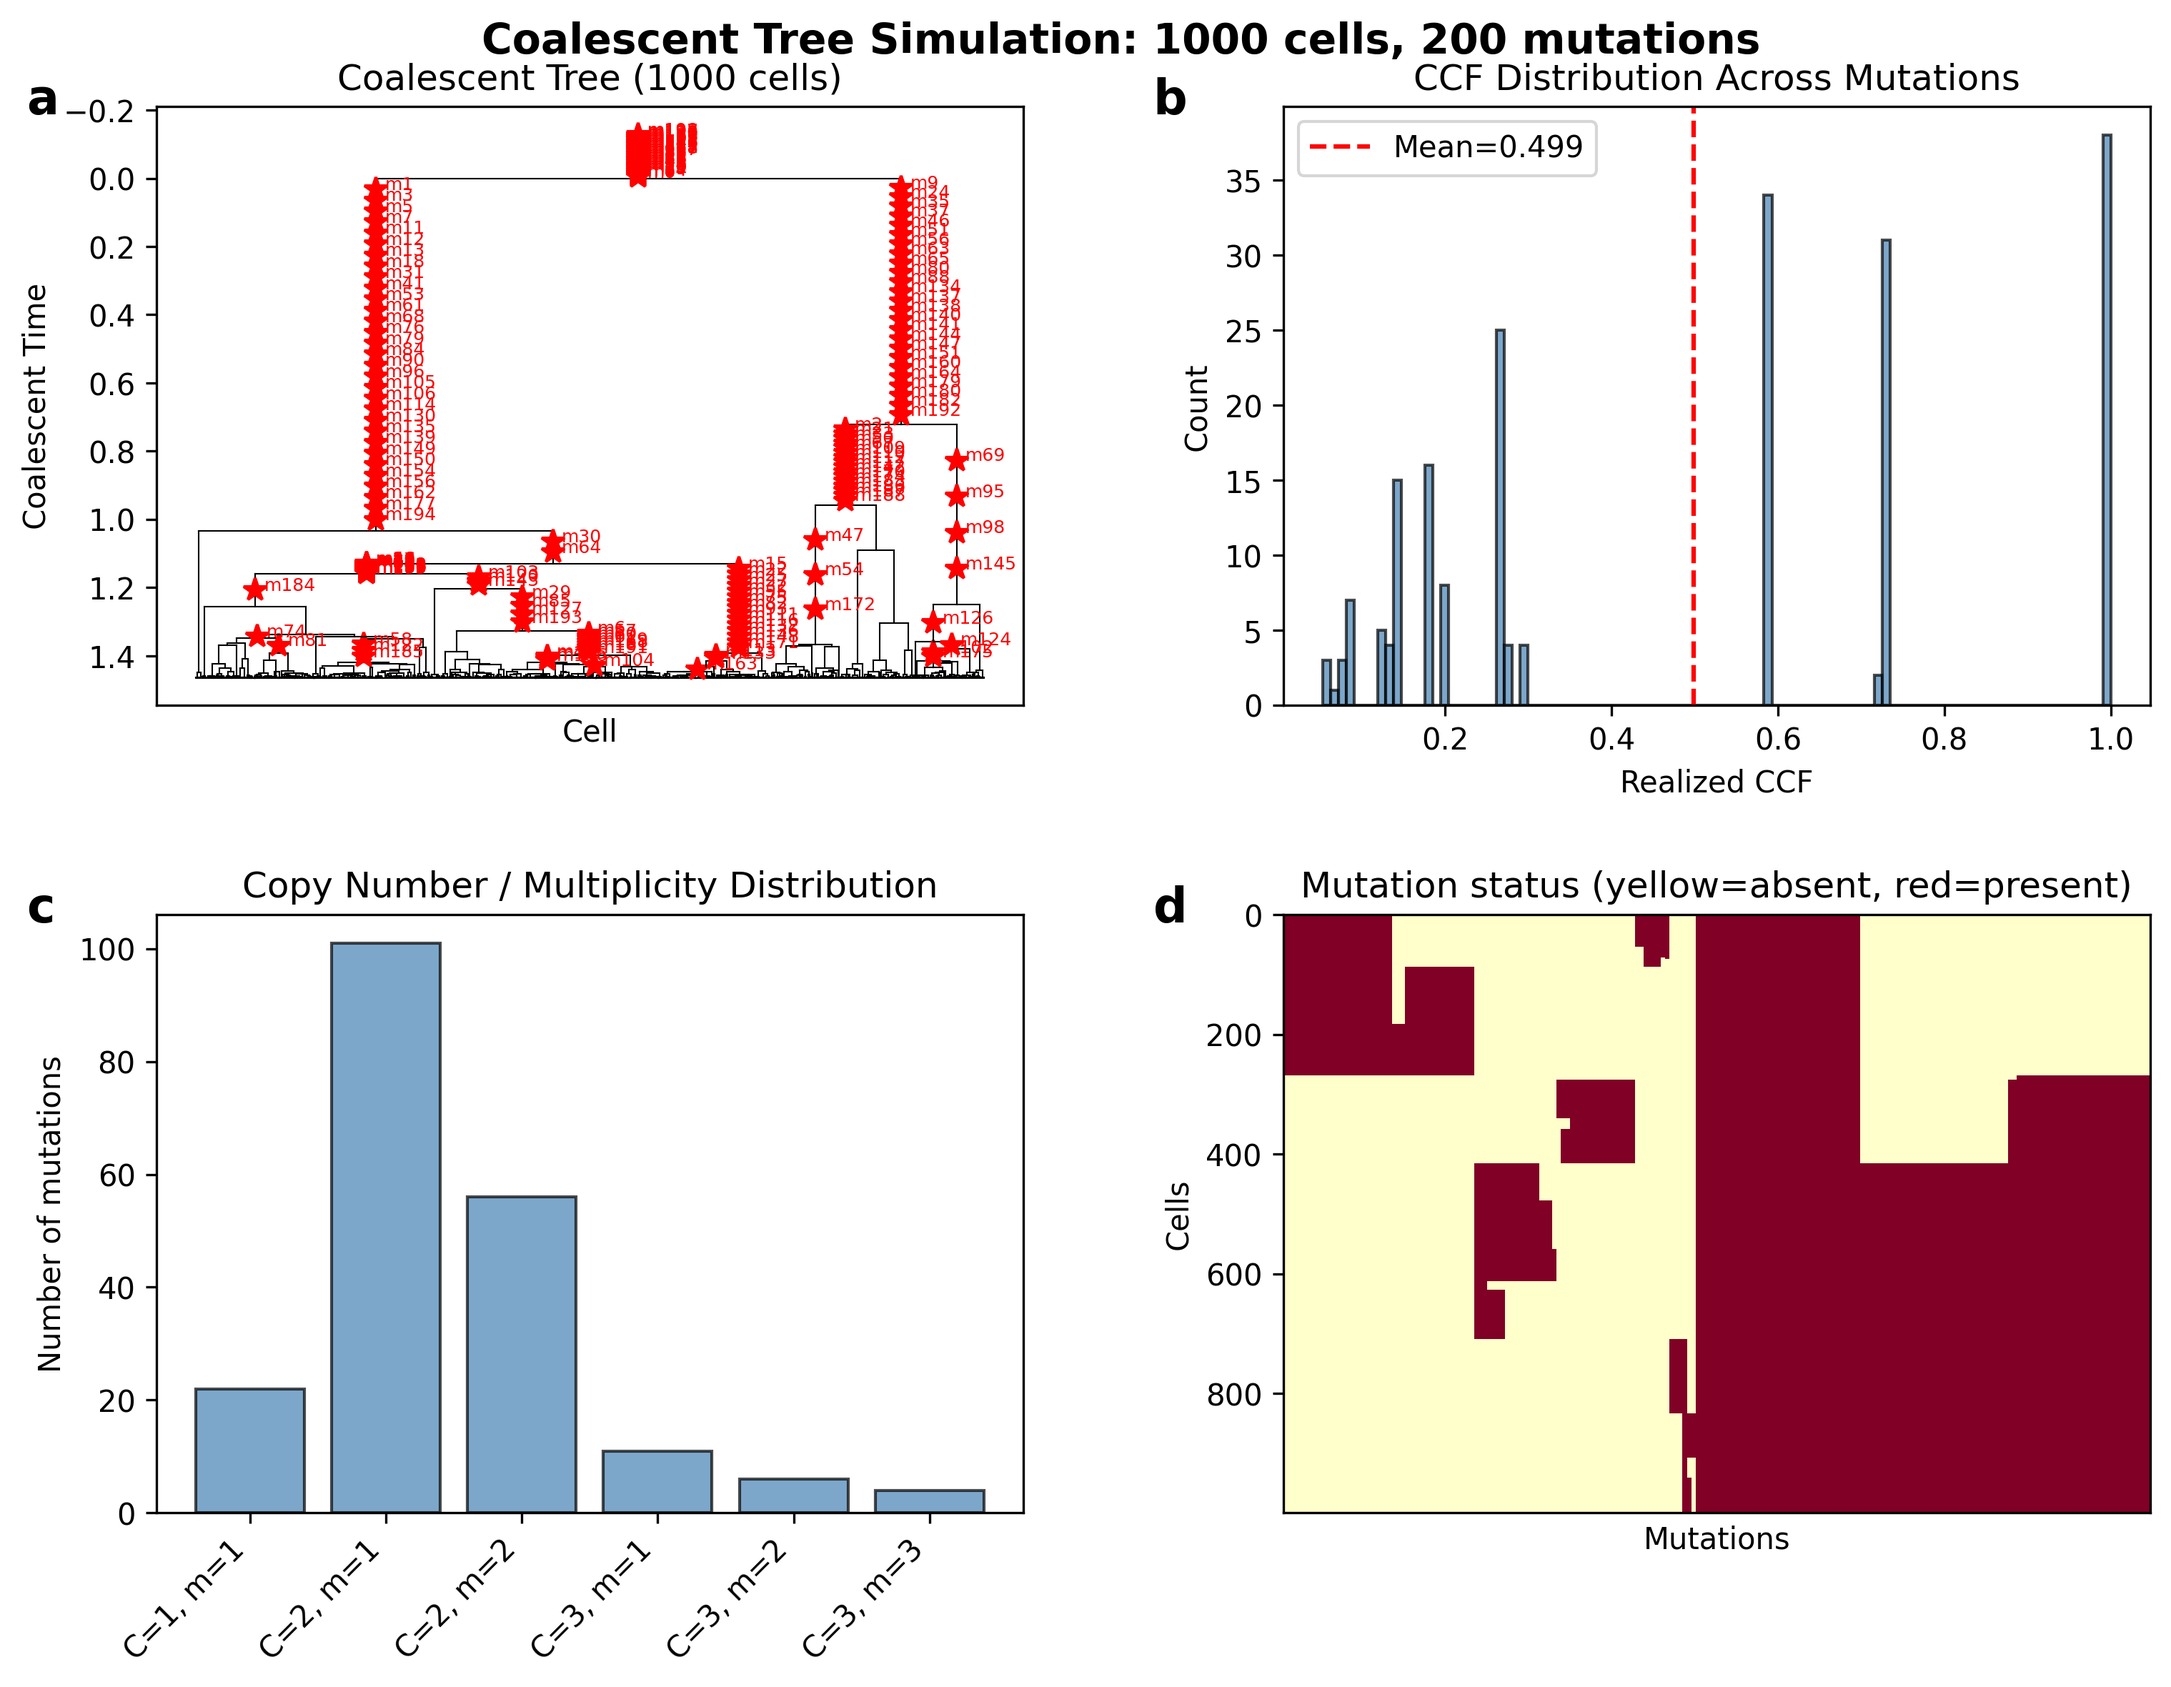
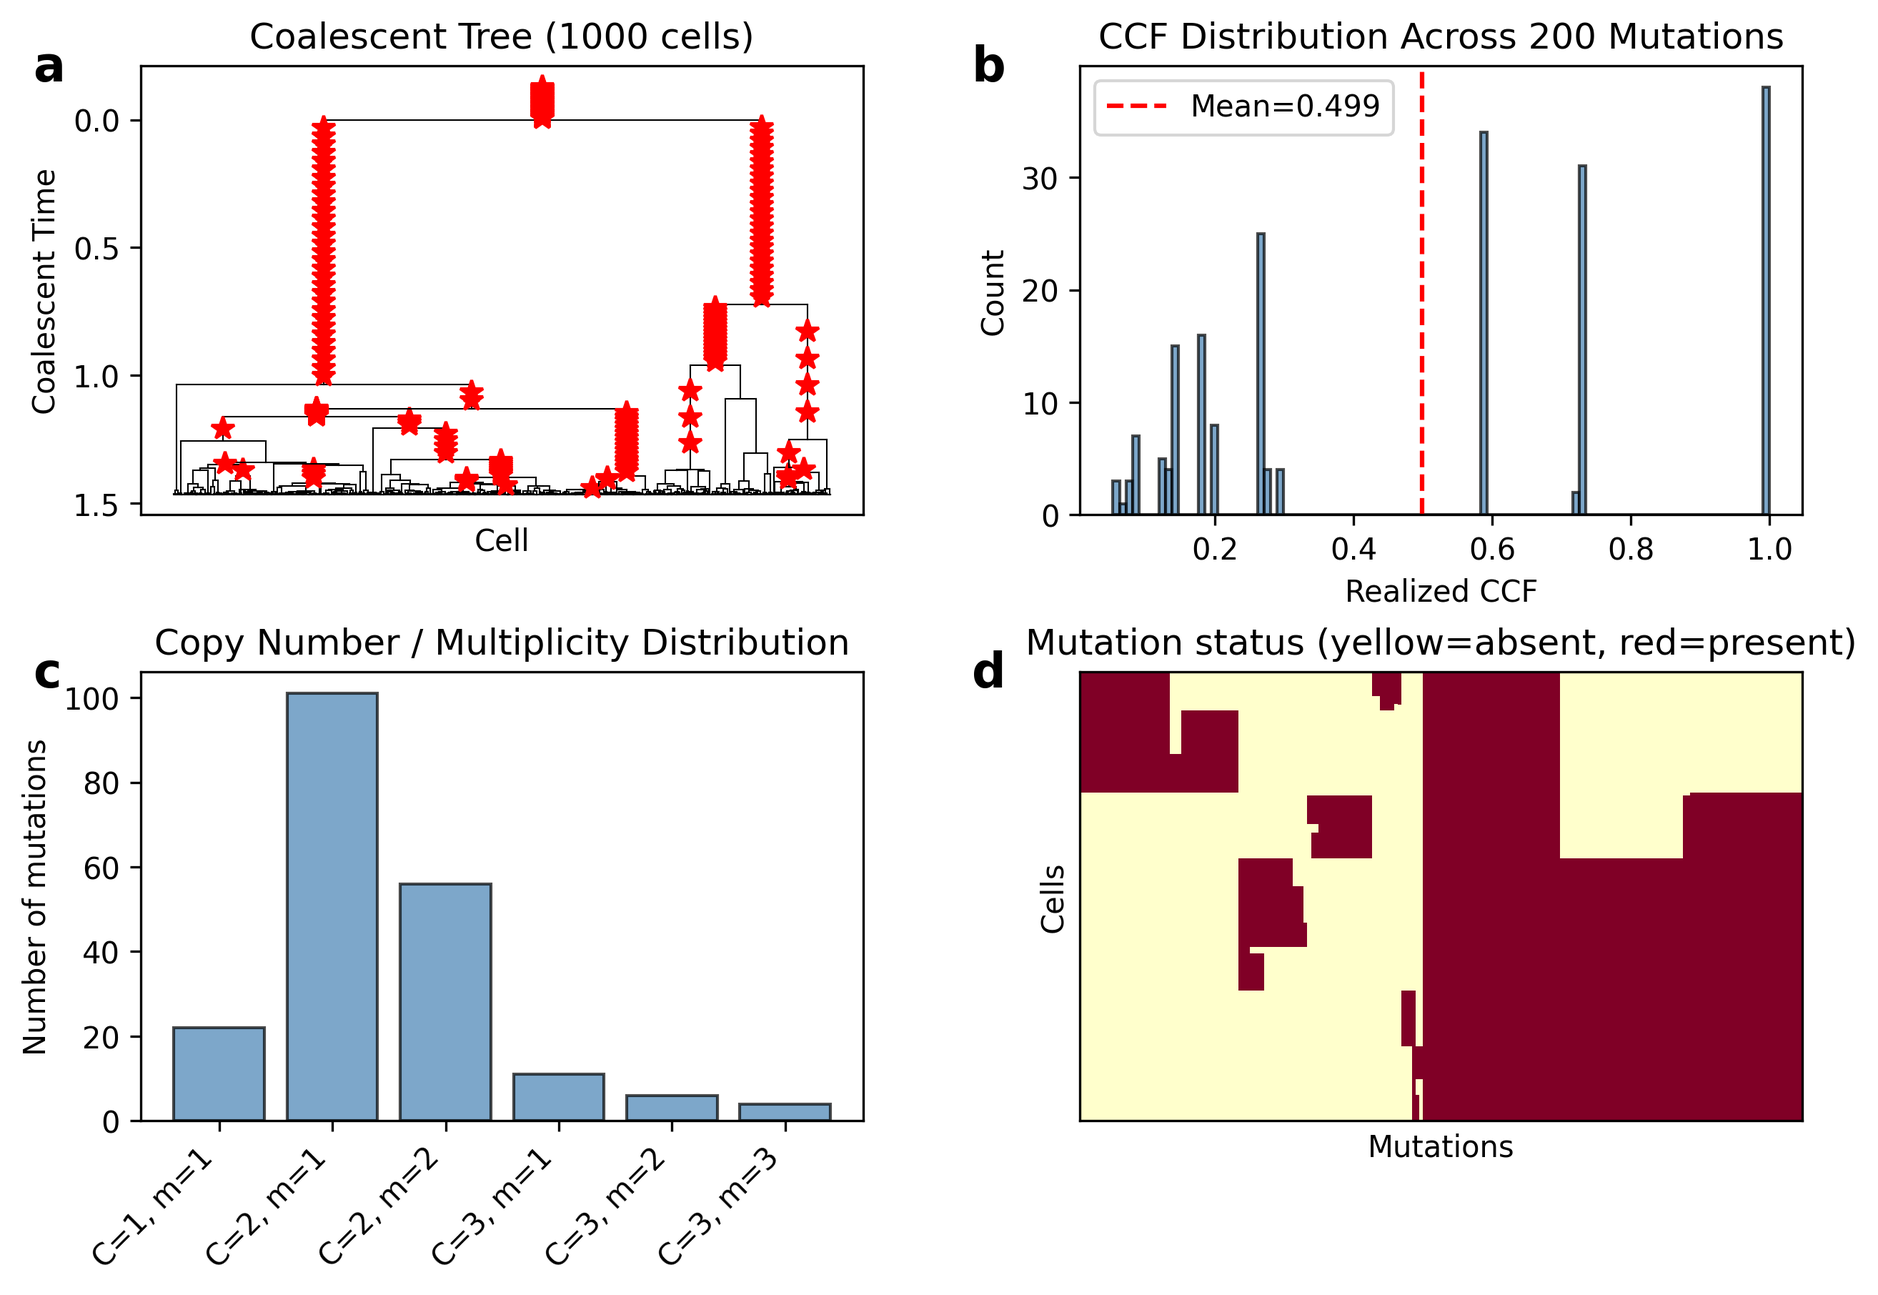
tree_simulation.py: make sim overview plot even smaller

diff --git a/src/tree_simulation.py b/src/tree_simulation.py
@@ -683,12 +683,7 @@ def plot_tree_simulation(
     output_file : str
         Path to save plot
     """
-    fig = plt.figure(figsize=(8, 6))
-    fig.suptitle(
-        f"Coalescent Tree Simulation: {hyperparams.n_cells} cells, "
-        f"{hyperparams.n_mutations} mutations",
-        fontsize=14, fontweight="bold"
-    )
+    fig = plt.figure(figsize=(10, 6))
     gs = fig.add_gridspec(2, 2, hspace=0.35, wspace=0.3, top=0.93)
 
     # Panel a: Tree dendrogram.
@@ -712,7 +707,9 @@ def plot_tree_simulation(
                 label=f"Mean={np.mean(ccfs):.3f}")
     ax2.set_xlabel("Realized CCF")
     ax2.set_ylabel("Count")
-    ax2.set_title("CCF Distribution Across Mutations")
+    ax2.set_title(
+        f"CCF Distribution Across {len(mutations)} Mutations"
+    )
     ax2.legend()
 
     # Panel c: Counts per (C, m) combination.
@@ -757,6 +754,7 @@ def plot_tree_simulation(
     heatmap = heatmap[np.ix_(cell_order, mut_order)]
     ax4.imshow(heatmap, aspect="auto", cmap="YlOrRd", interpolation="nearest")
     ax4.set_xticks([])
+    ax4.set_yticks([])
     ax4.set_xlabel("Mutations")
     ax4.set_ylabel("Cells")
     ax4.set_title("Mutation status (yellow=absent, red=present)")
@@ -822,11 +820,6 @@ def _plot_tree_dendrogram(
                     frac = (idx + 1) / (n_muts_here + 1)
                     my = y_lo + frac * (y_hi - y_lo)
                     ax.plot(x_pos[n.id], my, "r*", markersize=8)
-                    ax.annotate(
-                        f"m{mut_id}", (x_pos[n.id], my),
-                        fontsize=6, color="red",
-                        xytext=(3, 0), textcoords="offset points"
-                    )
 
     stem = nodes[root_id].branch_length
     if stem > 0:
@@ -843,11 +836,6 @@ def _plot_tree_dendrogram(
                 frac = (idx + 1) / (n_muts_here + 1)
                 my = y_pos[root_id] - frac * stem
                 ax.plot(x_pos[root_id], my, "r*", markersize=8)
-                ax.annotate(
-                    f"m{mut_id}", (x_pos[root_id], my),
-                    fontsize=4, color="red",
-                    xytext=(3, 0), textcoords="offset points"
-                )
 
     ax.set_title(f"Coalescent Tree ({n_leaves} cells)")
     ax.set_xlabel("Cell")
